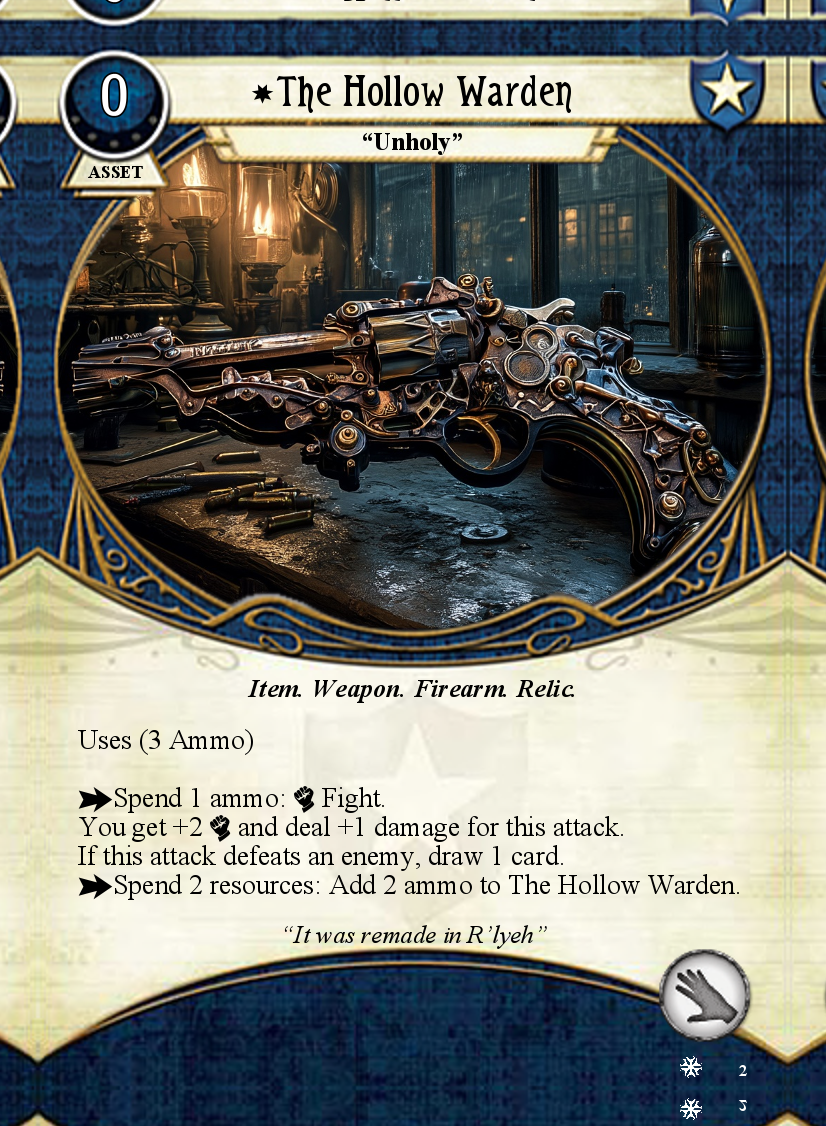
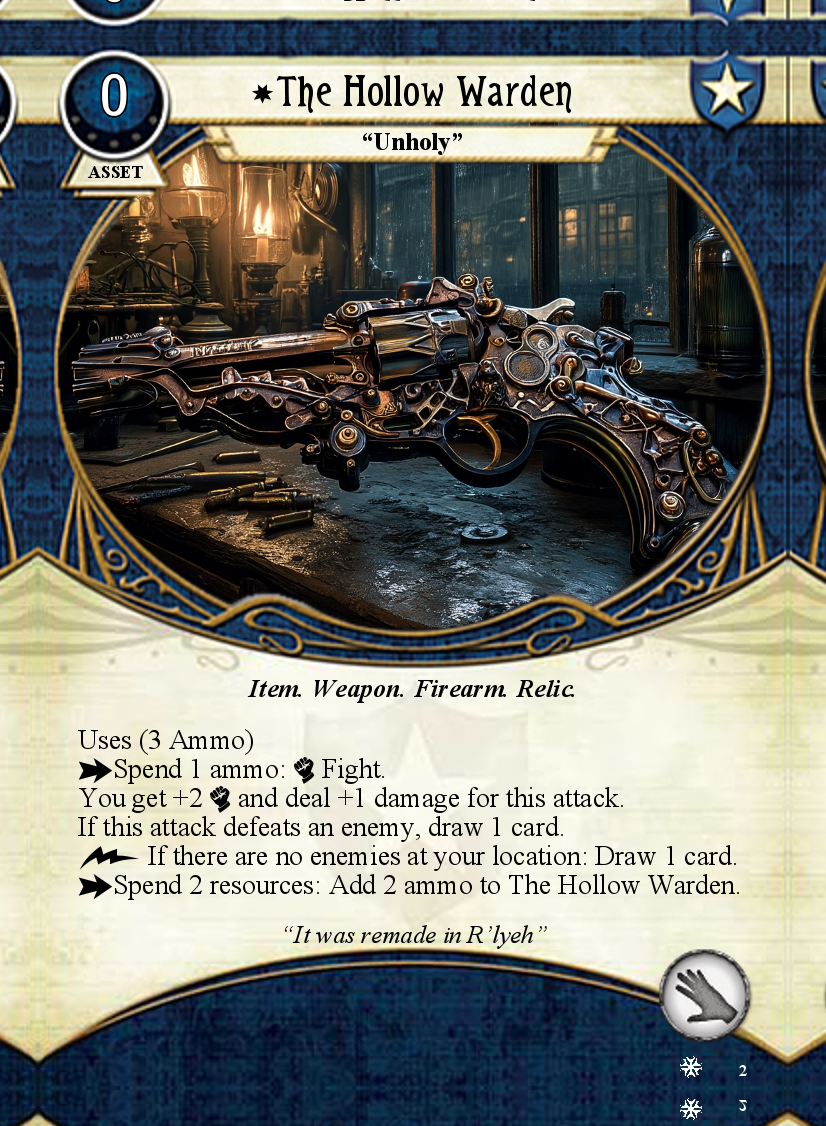
Full audit: rename Hollow Warden and My Glass PNGs to convention, fix stale .md references in both investigators

Changed region(s): [[0.0908, 0.6528, 0.7869, 0.7771], [0.8475, 0.746, 0.8777, 0.7771]]

diff --git a/games/arkham-lcg/investigators/custom-1/Alistair Greystoke/Alistair-Greystoke-Card-Data.md b/games/arkham-lcg/investigators/custom-1/Alistair Greystoke/Alistair-Greystoke-Card-Data.md
@@ -256,12 +256,12 @@ You may have 2 unique Ally assets in play simultaneously.
 | Category | Cards | Role |
 |---|---|---|
 | Clue Assets | Magnifying Glass | Boost investigate tests |
-| Ally Assets | Dr. Milan Christopher, Laboratory Assistant, Research Librarian | Economy, card draw, horror soak |
-| Clue Events | Crack the Case, Working a Hunch, Drawn to the Flame, Cryptic Research | Clue compression and acceleration |
+| Ally Assets | The Ancient Binding, The Relic Harvester, My Eyes and Ears | Defender, economy, clue acceleration |
+| Clue Events | Crack the Case, Working a Hunch, Drawn to the Flame | Clue compression and acceleration |
 | Enemy Management | Mind Over Matter, Evidence! | Intellect-based enemy handling |
-| Economy | Emergency Cache | Resource backup |
+| Economy | Treasure Vault | Resource backup |
 | Encounter Protection | Ward of Protection, Fearless | Cancel treacheries, horror resistance |
-| Support | First Aid | Healing for self and Ironhide |
+| Support | Evidence! | Clue on enemy defeat |
 | Skills | Deduction, Perception, Guts, Inquiring Mind | Commit to investigate and Willpower tests |
 
 ---
@@ -278,7 +278,7 @@ You may have 2 unique Ally assets in play simultaneously.
 
 **Encounter deck:** Ward of Protection cancels the worst treacheries. Fearless commits to Willpower tests and heals horror. Guts protects against Willpower-based encounter cards. Unbroken Codex ignores or cancels horror most rounds.
 
-**Sanity pressure:** Laboratory Assistant provides 2/2 horror soak. Fearless heals 1 horror on commit. Wisdom of Antiquity heals 1 damage or horror when played. Unbroken Codex absorbs 1 horror per round passively.
+**Sanity pressure:** The Ancient Binding prevents 1 damage/horror per round. Fearless heals 1 horror on commit. Wisdom of Antiquity heals 1 damage or horror when played. Unbroken Codex absorbs 1 horror per round passively.
 
 ---
 

diff --git a/games/arkham-lcg/investigators/custom-1/Jonathan Ironhide/Jonathan-Ironhide-Card-Data.md b/games/arkham-lcg/investigators/custom-1/Jonathan Ironhide/Jonathan-Ironhide-Card-Data.md
@@ -200,8 +200,8 @@ Ironhide's regular 30-card deck includes Guard Dog (up to 2 copies), thematicall
 
 | Priority | Card | XP Cost | Why |
 |---|---|---|---|
-| 1 | Beat Cop (2) | 4 XP | Adds 2 damage on defeat instead of 1 |
-| 2 | Vicious Blow (2) | 4 XP | +2 damage on fight, pairs with Warden for 4 damage kills |
+| 1 | Father Thomas (2) | 4 XP | Adds 2 damage on defeat instead of 1 |
+| 2 | R'lyeh's Fury (2) | 4 XP | +2 damage on fight, pairs with Warden for 4 damage kills |
 | 3 | Ward of Protection (2) | 2 XP | Protects adjacent investigators too |
 
 ---